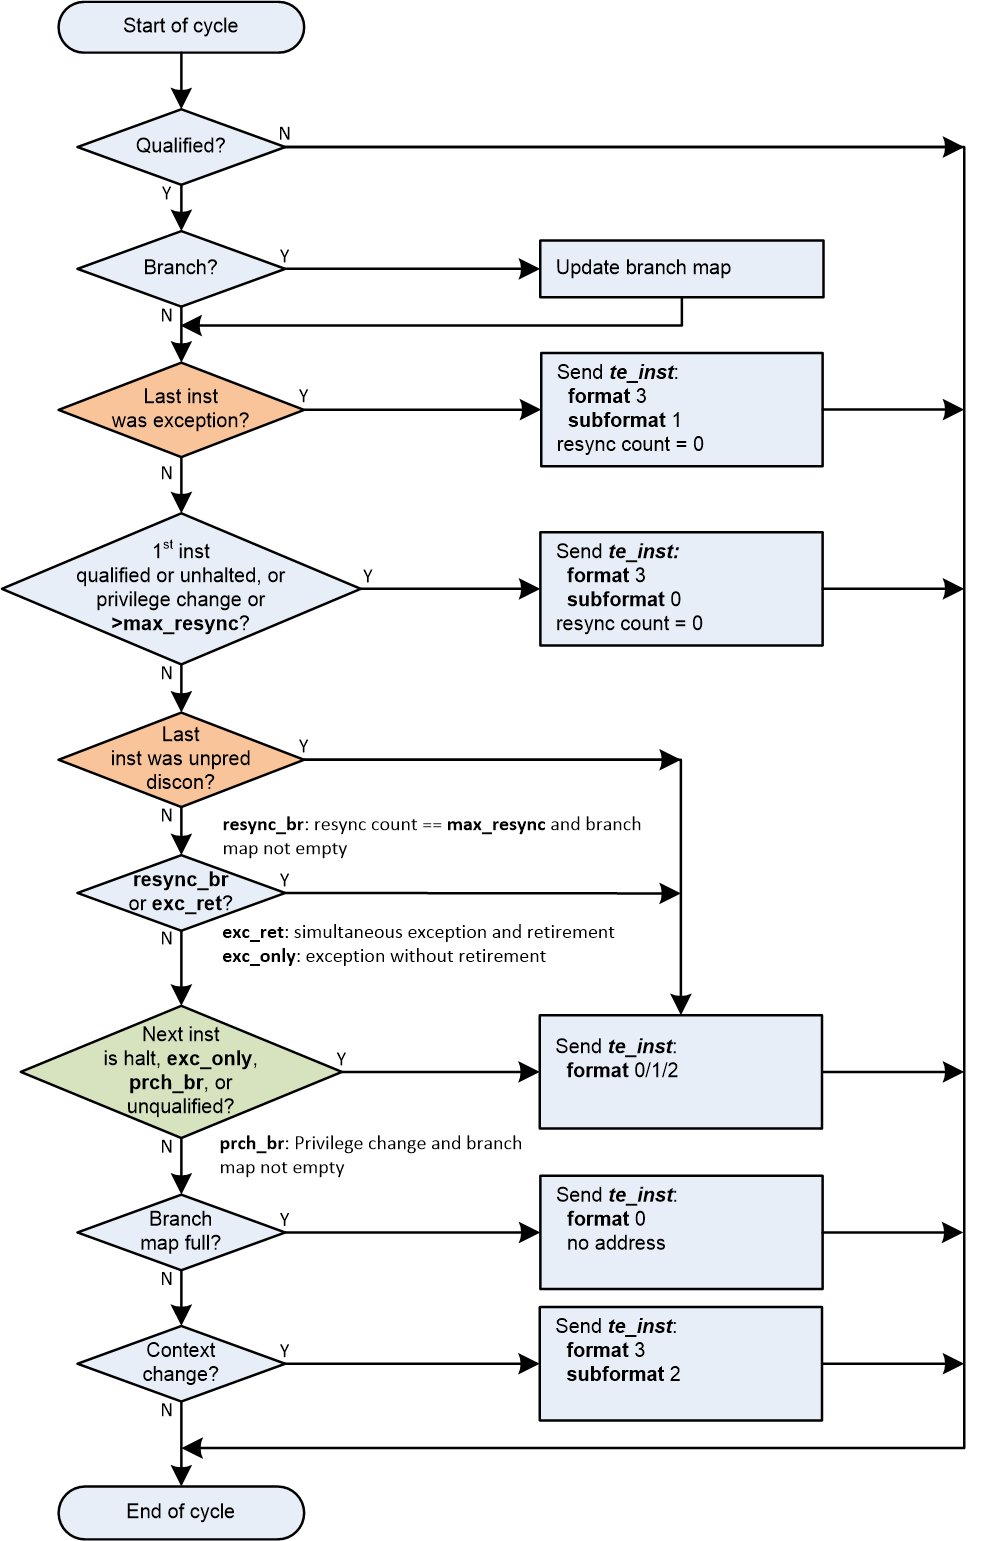
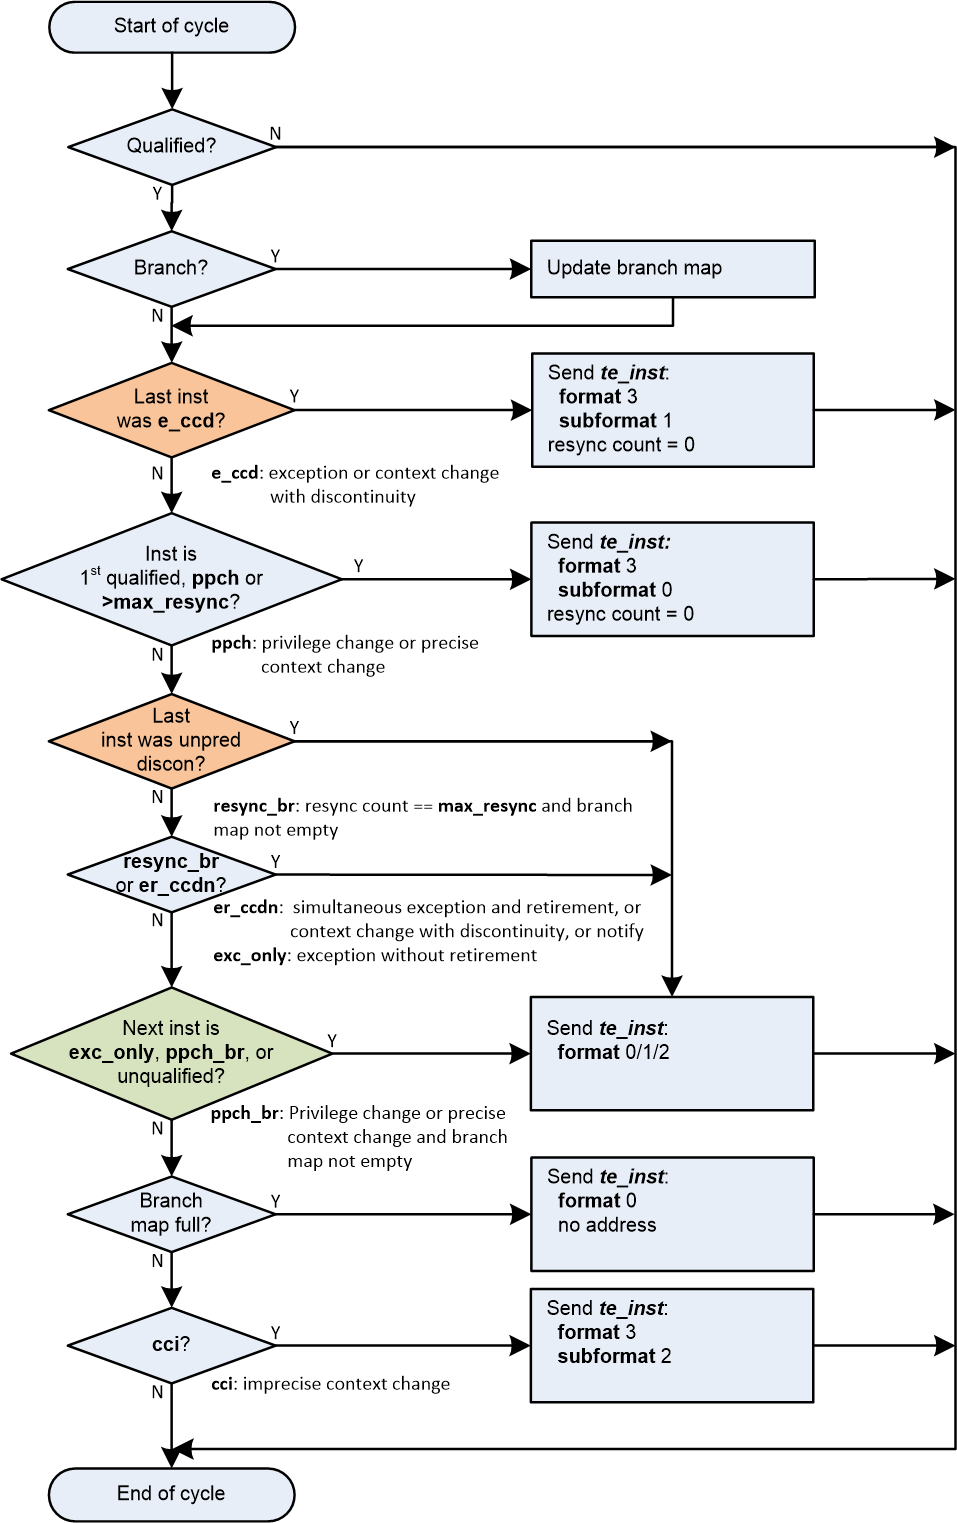
Update to the algorithm fowchart

diff --git a/exampleAlgorithm.tex b/exampleAlgorithm.tex
@@ -1,8 +1,14 @@
 \chapter{Example Algorithm}
 
-An example algorithm for compressed branch trace is given in figure \ref{fig:algo}. In the diagram, {\textit {unprediscon}} is short for unpredictable discontinuity; when the program counter changes in a manner that cannot be predicted from the source code alone. {\textit {te\_inst}} is the name of a type of packet emitted by the encoder. 
+An example algorithm for compressed branch trace is given in figure
+\ref{fig:algo}. In the diagram, {\textit {unprediscon}} is short for
+unpredictable discontinuity; when the program counter changes in a
+manner that cannot be predicted from the source code alone. {\textit
+  {te\_inst}} is the name of a type of packet emitted by the encoder.
 
-\textit{Context} is a generic term that refers to the threadID. This could be the HART ID and/or the software context id. This is reported when there is a change.
+\textit{Context} is a generic term that refers to the threadID. This
+could be the HART ID and/or the software context id. This is reported
+when there is a change.
 
 \begin{figure}[l]
 \begin{center}
@@ -12,4 +18,6 @@ An example algorithm for compressed branch trace is given in figure \ref{fig:alg
 \end{center}
 \end{figure}
 
+Figure \ref{fig:algo} shows instruction by instruction behaviour, as would be
+seen in a single-retirement system only.
 
